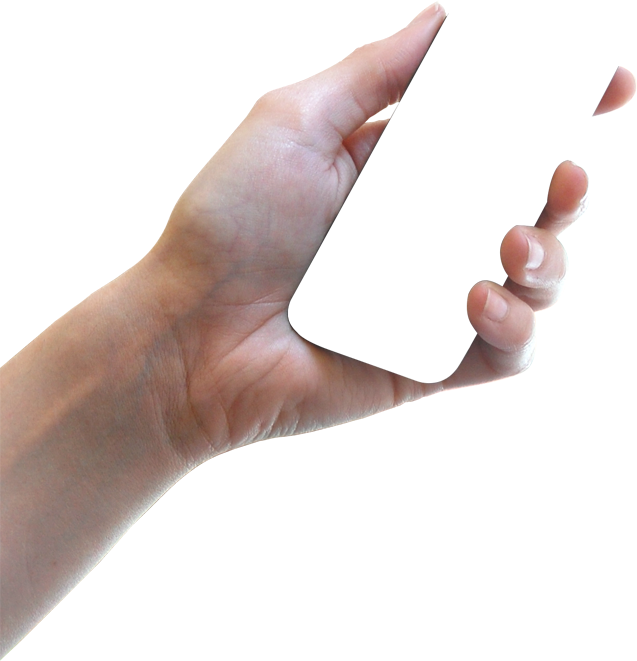
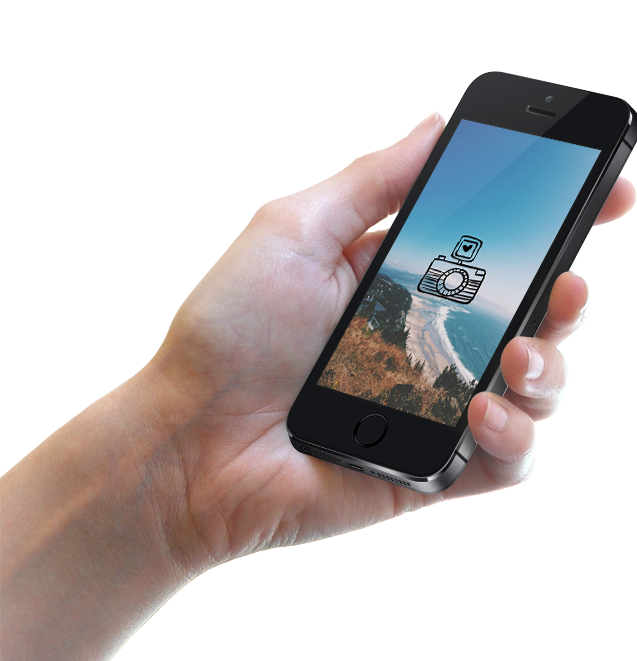
add third and fout\rth container with assets

diff --git a/css/oadruighaoignoi.css b/css/oadruighaoignoi.css
@@ -1,52 +1,48 @@
-body,ul {
+body,
+ul {
     margin: 0px;
 }
 .container {
-    width:auto;
+    width: auto;
 }
-.header-container{
+.header-container {
     background: url(images/Livello-1.png);
     height: 745px;
-    background-size:cover;
+    background-size: cover;
 }
-
-li{
+li {
     display: inline-block;
-    list-style:none;
+    list-style: none;
     margin: 0;
-} 
-.header li{
- padding:10px 33px;
-  
-  }
-
-.header .icon-container{
-padding-top:0px;
-  
 }
-
+.header li {
+    padding: 10px 33px;
+}
+.header .icon-container {
+    padding-top: 0px;
+}
 .header a {
     text-decoration: none;
-    color:#ffffff;
+    color: #ffffff;
     font-family: 'Varela Round', sans-serif;
     font-size: 16px;
     font-weight: 700;
-    text-transform:uppercase;
-  }
-
+    text-transform: uppercase;
+}
 .header {
     text-align: center;
-    color:#ffffff;
+    color: #ffffff;
     font-family: 'Varela Round', sans-serif;
-    text-transform:uppercase;
+    text-transform: uppercase;
 }
-.header .sm-text{
-    text-transform: lowercase;font-size: 36px;
+.header .sm-text {
+    text-transform: lowercase;
+    font-size: 36px;
     font-size: 16px;
     font-weight: 500;
     margin: 0px;
 }
-.header span{
+.header span {
     display: inline-block;
     font-size: 36px;
     font-weight: 700;
@@ -57,72 +53,64 @@ padding-top:0px;
     display: block;
     background-color: #16a085;
     border-radius: 3px;
-    border:none;
-    color:#ffffff;
+    border: none;
+    color: #ffffff;
     font-family: 'Varela Round', sans-serif;
     font-size: 12px;
-    text-transform:uppercase;
-    padding:18px 42px;
+    text-transform: uppercase;
+    padding: 18px 42px;
     margin: 0 auto;
 }
 .icon {
     display: inline-block;
     vertical-align: middle;
 }
-.icon-photo{
-    background: url(images/icon-photo.png) ;
+.icon-photo {
+    background: url(images/icon-photo.png);
     height: 55px;
     width: 53px;
     background-repeat: no-repeat;
     padding-bottom: 20px;
-    }
-
-.header ul{
- padding-top: 40px;
 }
-.header .icon-tw{
+.header ul {
+    padding-top: 40px;
+}
+.header .icon-tw {
     background: url(images/icon-twitter.png);
     background-repeat: no-repeat;
     height: 20px;
     width: 23px;
 }
-.header .icon-flicker{
+.header .icon-flicker {
     background: url(images/icon-flicker.png);
     background-repeat: no-repeat;
     height: 20px;
     width: 23px;
-  }
-
-.header .icon-web{
+}
+.header .icon-web {
     background: url(images/icon-web.png);
     background-repeat: no-repeat;
     height: 21px;
     width: 20px;
-    
-        }
-
-.header .social-button>li {
- padding: 0px 8px;   
 }
-
-.header .social-button{
-  padding-left: 0px;
+.header .social-button>li {
+    padding: 0px 8px;
+}
+.header .social-button {
+    padding-left: 0px;
     padding-top: 222px;
 }
-
 .second-container {
-    background-color: #f5f6f7;
     height: 494px;
-    background:
-        url(images/second-iPhone.png) 501px 20px,
-        url(images/second-hand.png) 214px 59px;
+    background: url(images/second-hand.png) 65% 59px;
+    background-color: #f5f6f7;
     background-repeat: no-repeat;
 }
 .heading {
     font-size: 18px;
     color: #16a085;
     width: 376px;
-    margin:0px;
+    margin: 0px;
     padding-left: 129px;
     font-family: 'Varela Round', sans-serif;
     text-transform: uppercase;
@@ -130,16 +118,123 @@ padding-top:0px;
     letter-spacing: 3px;
     padding-bottom: 49px;
 }
-.second-container .second-description{
+.description {
     display: inline-block;
     font-size: 12px;
     color: #373737;
     font-family: 'Varela Round', sans-serif;
-    padding-left: 128px;
     width: 428px;
-    
-   }
-.second-container .btn-left{
+    white-space: pre;
+}
+.second-description {
+    padding-left: 128px;
+    display: inline-block;
+}
+.second-container .btn-left {
     margin-left: 129px;
     margin-top: 47px;
+}
+.third-container {
+    background-color: #ffffff;
+    height: 558px;
+}
+.slider-container {
+    background: url(images/Shape.png);
+    background-repeat: no-repeat;
+    height: 614px;
+    width: 50%;
+    float: left;
+}
+.description-container {
+    float: left;
+    width: 50%;
+}
+.btn-right {
+    margin-left: 0px;
+    margin-top: 42px;
+}
+.heading-right {
+    padding-left: 0px;
+}
+.btn-prev {
+    background: url(images/btn-prev.png);
+    background-repeat: no-repeat;
+    height: 16px;
+    width: 11px;
+    border: none;
+}
+.btn-next {
+    background: url(images/btn-next.png);
+    background-repeat: no-repeat;
+    width: 11px;
+    height: 16px;
+    border: none;
+    margin-left: 21px;
+}
+.page-number {
+    font-family: 'Varela Round', sans-serif;
+    font-size: 12px;
+    line-height: 22px;
+    letter-spacing: 3px;
+}
+.slider-page {
+    padding-top: 45px;
+}
+.slider-container {
+    background: url(images/Flat-iPhone-5C-Mock-Up.png);
+    background-repeat: no-repeat;
+    background-position: 33px 103px;
+    overflow: hidden;
+    height: 558px;
+}
+.slider-container>img {
+    padding-top: 190px;
+    margin-left: 52px;
+    margin-bottom: -69px;
+}
+.fourth-container {
+    background-color: #f5f6f7;
+    height: 483px;
+}
+.slider-information {
+    width: 33%;
+    text-align: center;
+    padding-top: 165px;
+    float: left;
+}
+.heading-black {
+    font-size: 16px;
+    color: #373737;
+    font-weight: 700;
+    font-family: 'Varela Round', sans-serif;
+    text-transform: uppercase;
+    text-align: center;
+}
+.slider-information span {
+    text-align: center;
+}
+.slider-information p {
+    margin: 0px;
+    color: #373737;
+    font-family: 'Varela Round', sans-serif;
+    font-size: 10px;
+}
+.icon-photo-green {
+    background: url(images/photo-green.png);
+    height: 55px;
+    width: 59px;
+}
+.img-slider {
+    float: left;
+    padding-top: 95px;
+}
+.img-slider-btn {
+    padding-left: 738px;
+    margin-bottom: 5px;
+}
+.img-slider .btn-next {
+    margin-left: 8px;
+}
+.galery>img:last-child {
+    padding-left: 27px;
 }

diff --git a/oadruighaoignoi.html b/oadruighaoignoi.html
@@ -36,17 +36,60 @@
                 </div>
             </div>
             <div class="container second-container">
-                <h1 class="heading ">Rappresent your life with a 
+                <h1 class="heading">Rappresent your life with a
                     simple photo </h1>
-                <span class="second-description">Lorem ipsum dolor sit amet, consectetur adipiscing elit, 
+                <span class="description second-description">Lorem ipsum dolor sit amet, consectetur adipiscing elit,
                     sed do eiusmod tempor incididunt ut labore et dolore 
                     magna aliqua. Ut <strong>enim ad minim</strong> veniam, quis 
                     nostrud exercitation ullamco laboris nisi 
                     ut aliquip ex ea commodo consequat.</span>
                 <button class="btn btn-left">get started</button>
             </div>
-            <div></div>
-            <div></div>
+            <div class="container third-container">
+                <div class="slider-container"> <img src="images/PUT-YOUR-SCREEN-HERE.png" alt="PUT-YOUR-SCREEN-HERE">
+                </div>
+                <div class="description-container">
+                    <h1 class="heading heading-right">DESIGN</h1>
+                    <span class="description third-description">Lorem ipsum dolor sit amet, consectetur adipiscing elit,
+                        sed do eiusmod tempor incididunt ut labore et dolore
+                        magna aliqua. Ut enim ad minim veniam, quis
+                        nostrud exercitation ullamco laboris nisi
+                        ut aliquip ex ea commodo consequat.</span>
+                    <button  class="btn btn-right">learn more</button>
+                    <div class="slider-page">
+                        <div class="page-number">
+                            01/05
+                        </div>
+                        <div class="page-btns">
+                            <button class="btn-prev"></button>
+                            <button class="btn-next"></button>
+                        </div>
+                    </div>
+                </div>
+            </div>
+            <div class="container fourth-container">
+                <div class="slider-information">
+                    <i class="icon icon-photo-green">
+                    </i><!--картинка фотоаппарата-->
+                    <h1  class="heading-black">our community</h1>
+                    <span>
+ <p>Lorem ipsum dolor sit</p>
+<p>amet, consectetur </p>
+ <p> adipiscing elit,</p>
+                    </span>
+                </div>
+                <div class="img-slider">
+                    <div class="img-slider-btn">
+                    <button class="btn-prev"></button>
+                    <button class="btn-next"></button>
+                    </div>
+                    <div class="galery">
+                        <img src="images/galery-1.png">
+                        <img src="images/galery-2.png">
+                    </div>
+                </div>
+
+            </div>
             <div></div>
             <div></div>
             <div></div>
